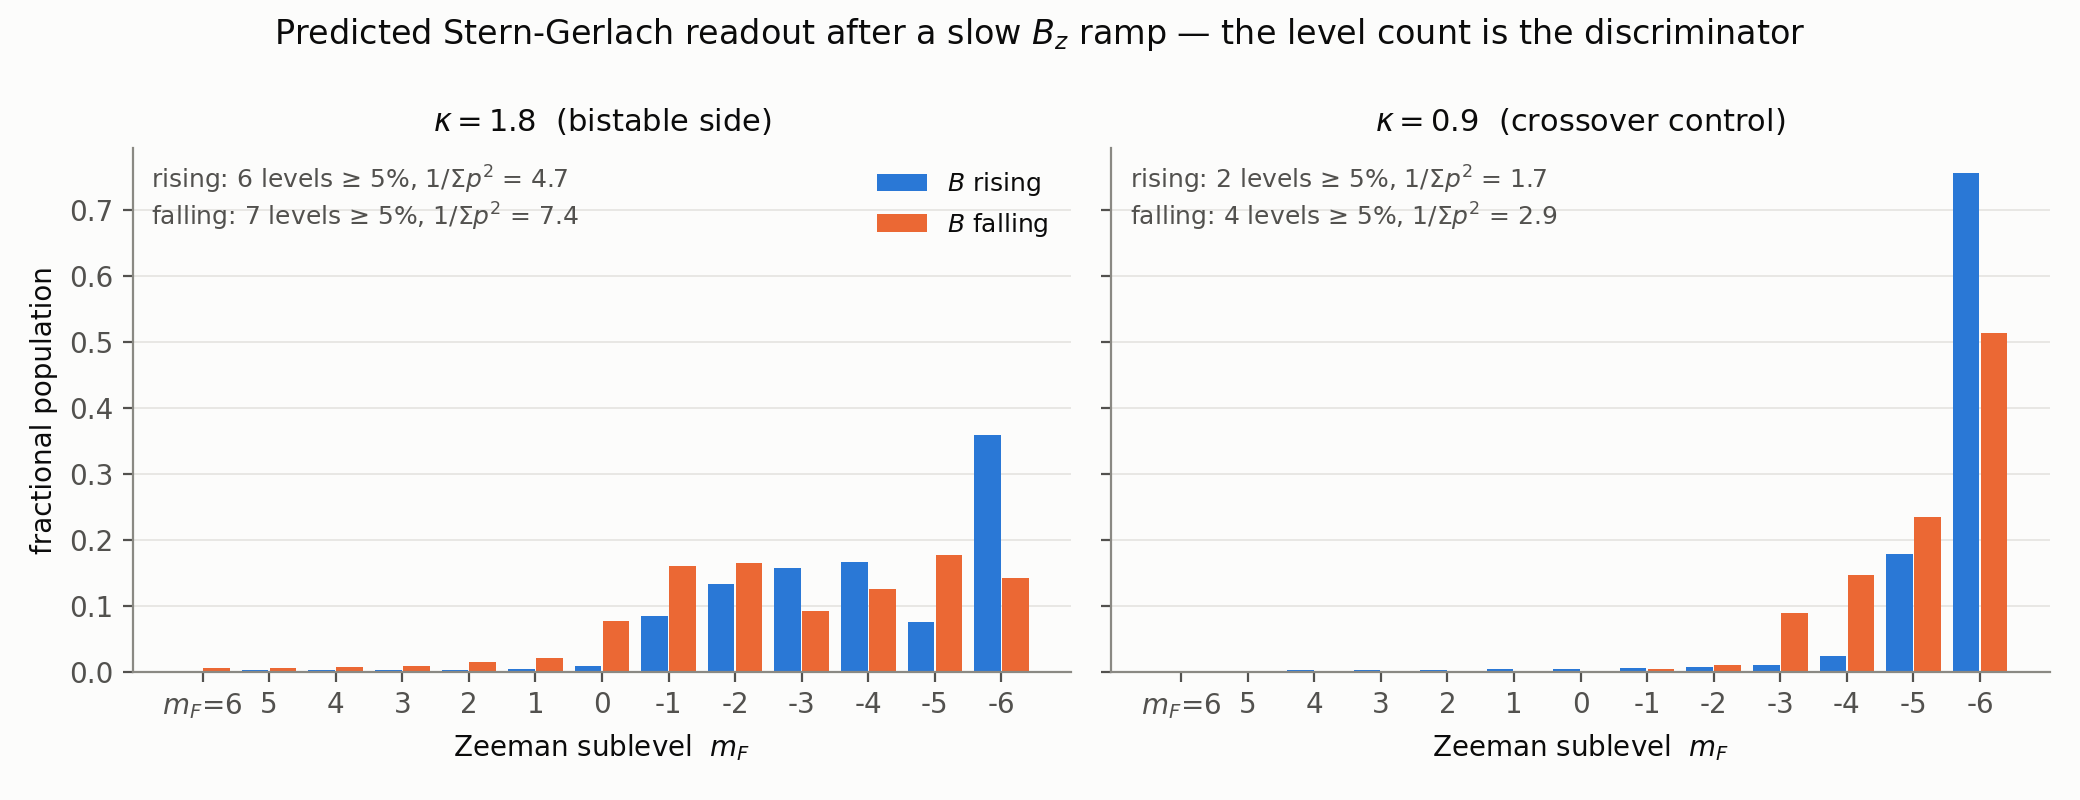
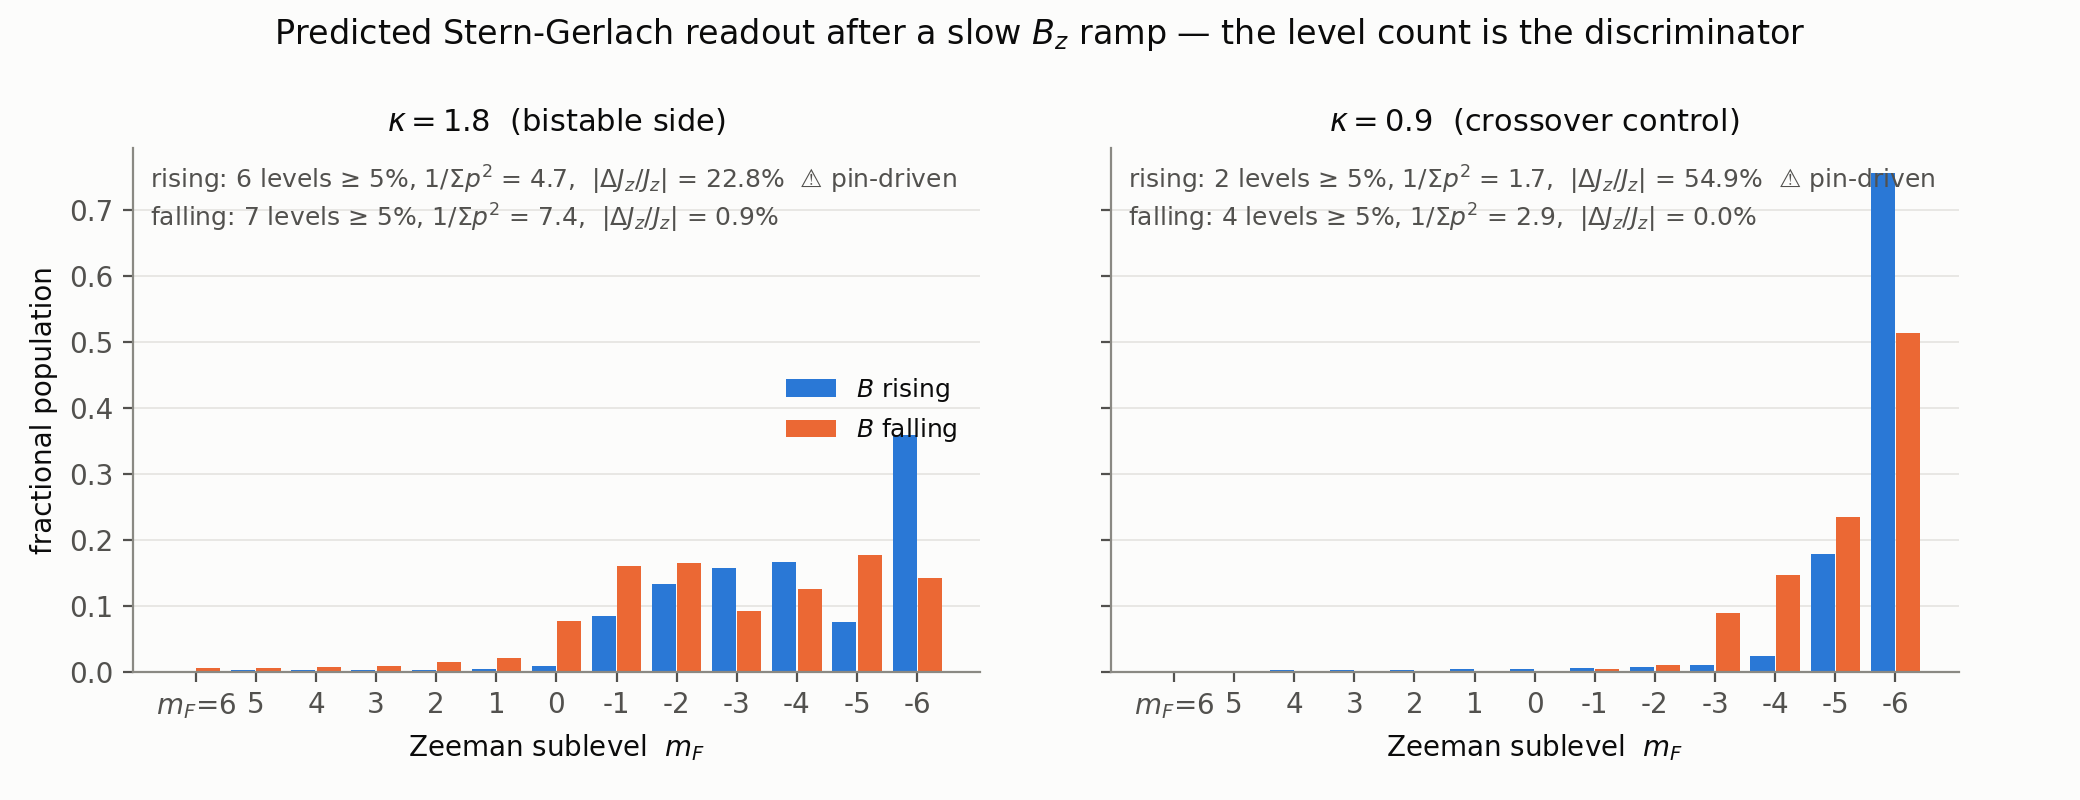
fix(eu335): the J_z drift bound quoted one κ's column as if it bounded both
Caught by putting the number on the figure. The §5.7 table said the falling leg
conserves J_z "to ≤3.6e-4 at both κ at every rate" — that was κ=0.9's absolute
column. κ=1.8's falling arm drifts +5.09e-2 at the slowest rate, two orders larger.

Fixed by quoting the drift as a FRACTION of each arm's own J_z, which is the
meaningful quantity and the honest one: the two κ start at different |J_z| (−5.75 vs
−6.00 on this leg, −1.09 vs −2.70 on the other), so an absolute cut flags an 0.9 %
drift on one arm and passes several percent on another. The corrected row is
0.009 / 0.015 / 0.028 / 0.069 / 0.9 % across the five rates, worse-of-the-two-κ — so
the conclusion holds comfortably, but by a stated margin rather than a wrong one.

The figure now carries |ΔJ_z/J_z| per arm with a 2 % flag, which is what surfaced
this: at the slowest rate three of four arms are pin-driven (22.8 % and 54.9 % on the
two rising legs) and only the falling legs are clean. A reader can now see which arm
is worth believing without going back to the manifests.

Refs #335.

Assisted-by: Claude Code (model: claude-opus-5[1m])

diff --git a/scripts/viz_eu_adiabatic_ramp.py b/scripts/viz_eu_adiabatic_ramp.py
@@ -386,6 +386,33 @@ def fig_sg_signal(runs: dict, out: Path) -> None:
     print(f"wrote {out}")
 
 
+def _arm_jz_drift(entry: dict, tag: str, key: float) -> float | None:
+    """J_z drift of one arm, from the manifest, matched on (tag, rate-or-τ)."""
+    m = entry["manifest"]
+    col = "rate_uG_per_ms" if entry["index"] == "rate" else "tau"
+    if col not in m or "Jz_drift" not in m or "tag" not in m:
+        return None
+    for i in range(len(m[col])):
+        if str(m["tag"][i]).strip() == tag and math.isclose(
+                float(m[col][i]), key, rel_tol=1e-9):
+            return float(m["Jz_drift"][i])
+    return None
+
+
+def _arm_jz_start(entry: dict, tag: str, key: float) -> float | None:
+    """J_z at the START of one arm = Jz_end − Jz_drift, from the manifest."""
+    m = entry["manifest"]
+    col = "rate_uG_per_ms" if entry["index"] == "rate" else "tau"
+    for need in (col, "Jz_end", "Jz_drift", "tag"):
+        if need not in m:
+            return None
+    for i in range(len(m[col])):
+        if str(m["tag"][i]).strip() == tag and math.isclose(
+                float(m[col][i]), key, rel_tol=1e-9):
+            return float(m["Jz_end"][i]) - float(m["Jz_drift"][i])
+    return None
+
+
 def _n_populated(vals, thresh=0.05) -> int:
     return int(sum(1 for v in vals if v >= thresh))
 
@@ -434,9 +461,24 @@ def fig_sg_kappa_contrast(runs: dict, out: Path, thresh: float = 0.05) -> None:
             x = np.arange(len(ms)) + (i - 0.5) * (width + 0.02)
             ax.bar(x, vals, width=width, color=CAT[i],
                    label="$B$ rising" if tag == "rise" else "$B$ falling")
+            # J_z drift per arm, on the figure. The comparison is between two
+            # J_z-conserving evolutions, and on the RISING leg at κ = 0.9 the pin
+            # drags J_z by up to 55 % at slow rates — so an arm's drift is not a
+            # footnote, it is what says whether that arm's count means anything.
+            # FRACTIONAL, not absolute: the two κ start at different |J_z|
+            # (−5.75 vs −6.00 on this leg, −1.09 vs −2.70 on the other), so an
+            # absolute cut flags an 0.9 % drift on one arm and passes a 5 % drift
+            # on another. An absolute threshold here labelled the κ=1.8 falling
+            # leg "pin-driven" at 0.9 %.
+            drift = _arm_jz_drift(entry, tag, key)
+            jz0 = _arm_jz_start(entry, tag, key)
+            frac = None if (drift is None or not jz0) else abs(drift / jz0)
             notes.append(f"{'rising' if tag == 'rise' else 'falling'}: "
                          f"{_n_populated(vals, thresh)} levels ≥ {thresh:.0%}, "
-                         f"$1/\\Sigma p^2$ = {_participation(vals):.1f}")
+                         f"$1/\\Sigma p^2$ = {_participation(vals):.1f}"
+                         + ("" if frac is None
+                            else f",  $|\\Delta J_z / J_z|$ = {frac:.1%}"
+                                 + ("  ⚠ pin-driven" if frac > 0.02 else "")))
         ax.annotate("\n".join(notes), xy=(0.02, 0.97), xycoords="axes fraction",
                     va="top", ha="left", color=INK2, fontsize=9)
         order = "bistable side" if kappa >= 1.0 else "crossover control"
@@ -450,7 +492,7 @@ def fig_sg_kappa_contrast(runs: dict, out: Path, thresh: float = 0.05) -> None:
             ax.set_xticklabels([l.replace("m", "$m_F$=") if l == labels[0] else l[1:]
                                 for l in labels])
     axes[0].set_ylabel("fractional population")
-    axes[0].legend(loc="upper right")
+    axes[0].legend(loc="center right")
     fig.suptitle("Predicted Stern-Gerlach readout after a slow $B_z$ ramp — "
                  "the level count is the discriminator", color=INK)
     fig.tight_layout()

diff --git a/docs/guides/eu_kappa_hysteresis_loop.md b/docs/guides/eu_kappa_hysteresis_loop.md
@@ -415,9 +415,9 @@ the DC offset (the pin at 0.135 µG left J_z flat to 3×10⁻³ over 434 ms, whi
 `scripts/eu_hysteresis/sg_signature.jl` on `runs/eu335/ramp_g32`. At every ramp
 rate ≤ 1 µG/ms (τ ≳ 60 ms) and in **both** ramp directions:
 
-**Use the FALLING leg.** It is the arm where J_z is conserved to ≤ 3.6×10⁻⁴ at both
-κ at *every* rate, so the comparison is between two J_z-conserving evolutions and
-nothing else. It is also operationally simpler: one ramp direction suffices.
+**Use the FALLING leg.** It is the arm where J_z is conserved at both κ at *every*
+rate, so the comparison is between two J_z-conserving evolutions and nothing else. It
+is also operationally simpler: one ramp direction suffices.
 
 | rate [µG/ms] | 4 | 1.2 | 0.4 | 0.12 | 0.04 |
 |---|---:|---:|---:|---:|---:|
@@ -426,7 +426,7 @@ nothing else. It is also operationally simpler: one ramp direction suffices.
 | **κ = 1.8**: 1/Σp² | 5.01 | 5.57 | 5.76 | 6.31 | 7.41 |
 | **κ = 0.9**: levels ≥ 5 % | **3** | **3** | **3** | **3** | **4** |
 | **κ = 0.9**: 1/Σp² | 1.60 | 1.98 | 2.30 | 2.33 | 2.88 |
-| J_z drift, both κ | ≤ 5×10⁻⁵ | ≤ 8×10⁻⁵ | ≤ 1×10⁻⁴ | ≤ 2×10⁻⁴ | ≤ 4×10⁻⁴ |
+| |ΔJ_z/J_z|, worse of the two κ | 0.009 % | 0.015 % | 0.028 % | 0.069 % | 0.9 % |
 
 **Disjoint at all five rates**, with a ≥ 3-level gap and the participation ratios
 never closer than a factor 1.7. At κ = 0.9 the cloud stays in m_F = −6 and −5 (peak
@@ -440,8 +440,16 @@ ramp gets too fast to rearrange), so **τ ≳ 17 ms is the requirement**.
 a large transverse spin sitting on that κ's soft manifold. So a rising-leg comparison
 at slow rates is partly a measurement of how much the pin torqued each arm. The
 counts *are* still disjoint there (6–7 vs 2–4 across both legs), and at 4 µG/ms both
-rising arms are clean to ≤ 1.8 % and give 6 vs 3 — but the falling leg needs no such
-qualification at any rate, so it is the one to quote.
+rising arms are clean to ≤ 1.8 % and give 6 vs 3 — but the falling leg's worst
+fractional drift is 0.9 %, at the slowest rate, and 0.07 % or better everywhere else,
+so it needs no such qualification and it is the one to quote.
+
+The drift is quoted as a **fraction** of each arm's own J_z rather than in absolute
+units, because the two κ start at different |J_z| (−5.75 vs −6.00 on this leg, −1.09
+vs −2.70 on the other): an absolute cut labelled the κ = 1.8 falling leg "pin-driven"
+at 0.9 % while passing arms that had moved several percent. An earlier version of the
+table above quoted κ = 0.9's absolute column as if it bounded both, which understated
+the κ = 1.8 falling arm at the slowest rate by two orders of magnitude.
 
 The participation ratio says the same thing without any threshold, so the conclusion
 does not rest on where 5 % was drawn.
@@ -477,7 +485,7 @@ What the campaign delivers instead, all of it new and all of it falsifiable:
 | polarised branch's lower spinodal | **none above 5 µG** — it is a stable minimum throughout | §5.5b |
 | static branch separation at 20 µG | δ⟨F⊥⟩ = **5.06** (5.137 vs 0.075) | §5.1 |
 | κ = 0.9: number of branches | **one** — two continuations from opposite ends agree to 6–7 digits in E | §5.3 |
-| **the experimental discriminator** | on the FALLING leg, **6–7 populated m_F levels at κ = 1.8 vs 3–4 at κ = 0.9** — disjoint at all five rates from 17.5 ms to 1750 ms, with J_z conserved to 4×10⁻⁴ at both κ | §5.7 |
+| **the experimental discriminator** | on the FALLING leg, **6–7 populated m_F levels at κ = 1.8 vs 3–4 at κ = 0.9** — disjoint at all five rates from 17.5 ms to 1750 ms, with |ΔJ_z/J_z| ≤ 0.9 % at both κ | §5.7 |
 | shielding sensitivity | doubling the residual transverse field 0.068 → 0.135 µG **halves** the transverse response | §5.6 |
 | grid | 32³ ↔ 64³: spinodal to **0.2 %**, ⟨F⊥⟩ to **≤ 0.3 %**, E to 1×10⁻⁵ relative | §5.8 |
 
@@ -490,8 +498,8 @@ The falsifiable statement to hand the demagnetisation experiment is therefore **
 
 No scattering length has to be known, and one ramp direction suffices. The falling
 direction is specified rather than left free: it is the leg on which J_z is conserved
-to ≤ 3.6×10⁻⁴ at *both* κ at every rate, so the comparison is between two
-J_z-conserving evolutions. On the rising leg at κ = 0.9 the pin drags J_z by up to
+to ≤ 0.9 % at *both* κ at every rate — 0.07 % or better except at the slowest — so the
+comparison is between two J_z-conserving evolutions. On the rising leg at κ = 0.9 the pin drags J_z by up to
 55 % at slow rates (§5.7), which would put part of the contrast down to the pin.
 
 ### 5.8 Grid check
